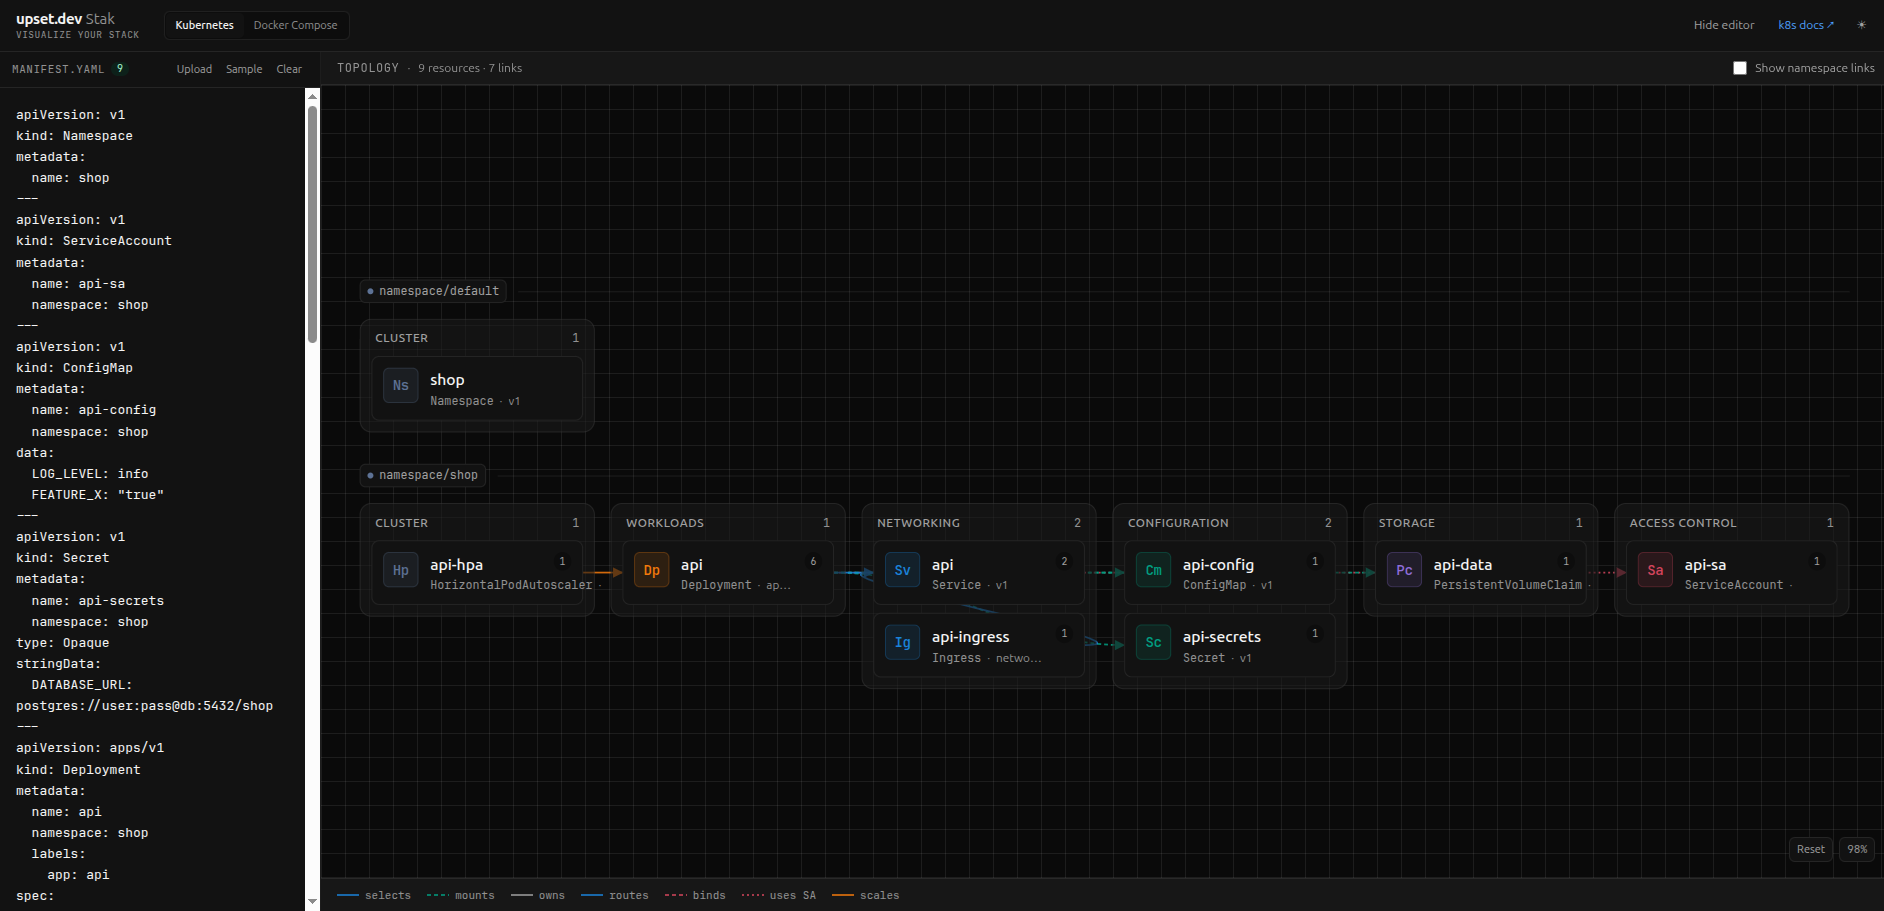
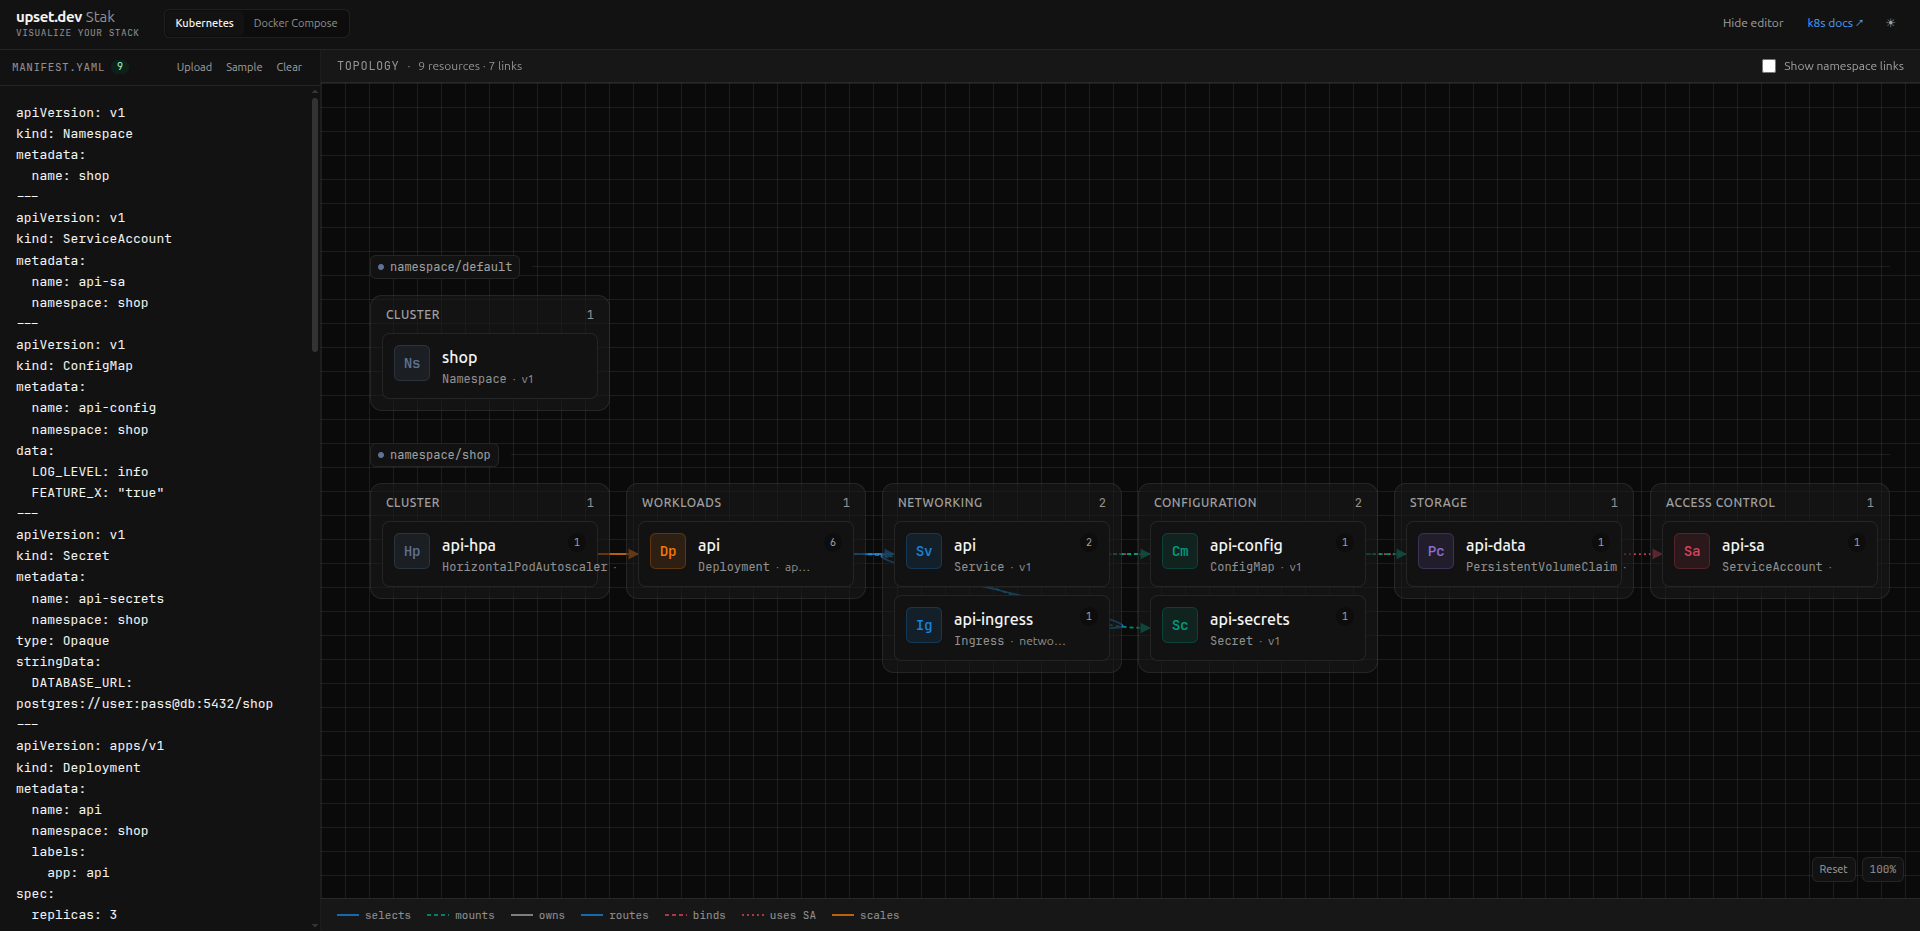
customize scrollbar

diff --git a/src/components/stak/yaml-editor.tsx b/src/components/stak/yaml-editor.tsx
@@ -11,7 +11,15 @@ interface EditorProps {
   placeholder: string;
 }
 
-export function YamlEditor({ value, onChange, errors, resourceCount, filename, sample, placeholder }: EditorProps) {
+export function YamlEditor({
+  value,
+  onChange,
+  errors,
+  resourceCount,
+  filename,
+  sample,
+  placeholder,
+}: EditorProps) {
   const fileInput = useRef<HTMLInputElement>(null);
   const dropRef = useRef<HTMLDivElement>(null);
 
@@ -98,8 +106,8 @@ export function YamlEditor({ value, onChange, errors, resourceCount, filename, s
           spellCheck={false}
           placeholder={placeholder}
           className={cn(
-            "h-full w-full resize-none bg-kumo-base p-4 font-mono text-[13px] leading-relaxed text-kumo-default outline-none",
-            "placeholder:text-kumo-placeholder",
+            "yaml-editor h-full w-full resize-none bg-kumo-base p-4 font-mono text-[13px] leading-relaxed text-kumo-default outline-none",
+            "placeholder:text-kumo-placeholder [scrollbar-width:thin] [scrollbar-color:var(--kumo-hairline-strong)_transparent]",
           )}
         />
       </div>

diff --git a/src/components/ui/sidebar.tsx b/src/components/ui/sidebar.tsx
@@ -396,7 +396,7 @@ const SidebarContent = React.forwardRef<HTMLDivElement, React.ComponentProps<"di
         ref={ref}
         data-sidebar="content"
         className={cn(
-          "flex min-h-0 flex-1 flex-col gap-2 overflow-auto group-data-[collapsible=icon]:overflow-hidden",
+          "flex min-h-0 flex-1 flex-col gap-2 overflow-auto group-data-[collapsible=icon]:overflow-hidden [scrollbar-width:thin] [scrollbar-color:hsl(var(--sidebar-border))_transparent]",
           className,
         )}
         {...props}

diff --git a/src/styles.css b/src/styles.css
@@ -196,6 +196,17 @@
   }
 }
 
+textarea.yaml-editor::-webkit-scrollbar {
+  width: 4px;
+}
+textarea.yaml-editor::-webkit-scrollbar-track {
+  background: transparent;
+}
+textarea.yaml-editor::-webkit-scrollbar-thumb {
+  background: var(--kumo-hairline-strong);
+  border-radius: 9999px;
+}
+
 @layer utilities {
   .hairline {
     box-shadow: inset 0 0 0 1px var(--color-kumo-hairline);
